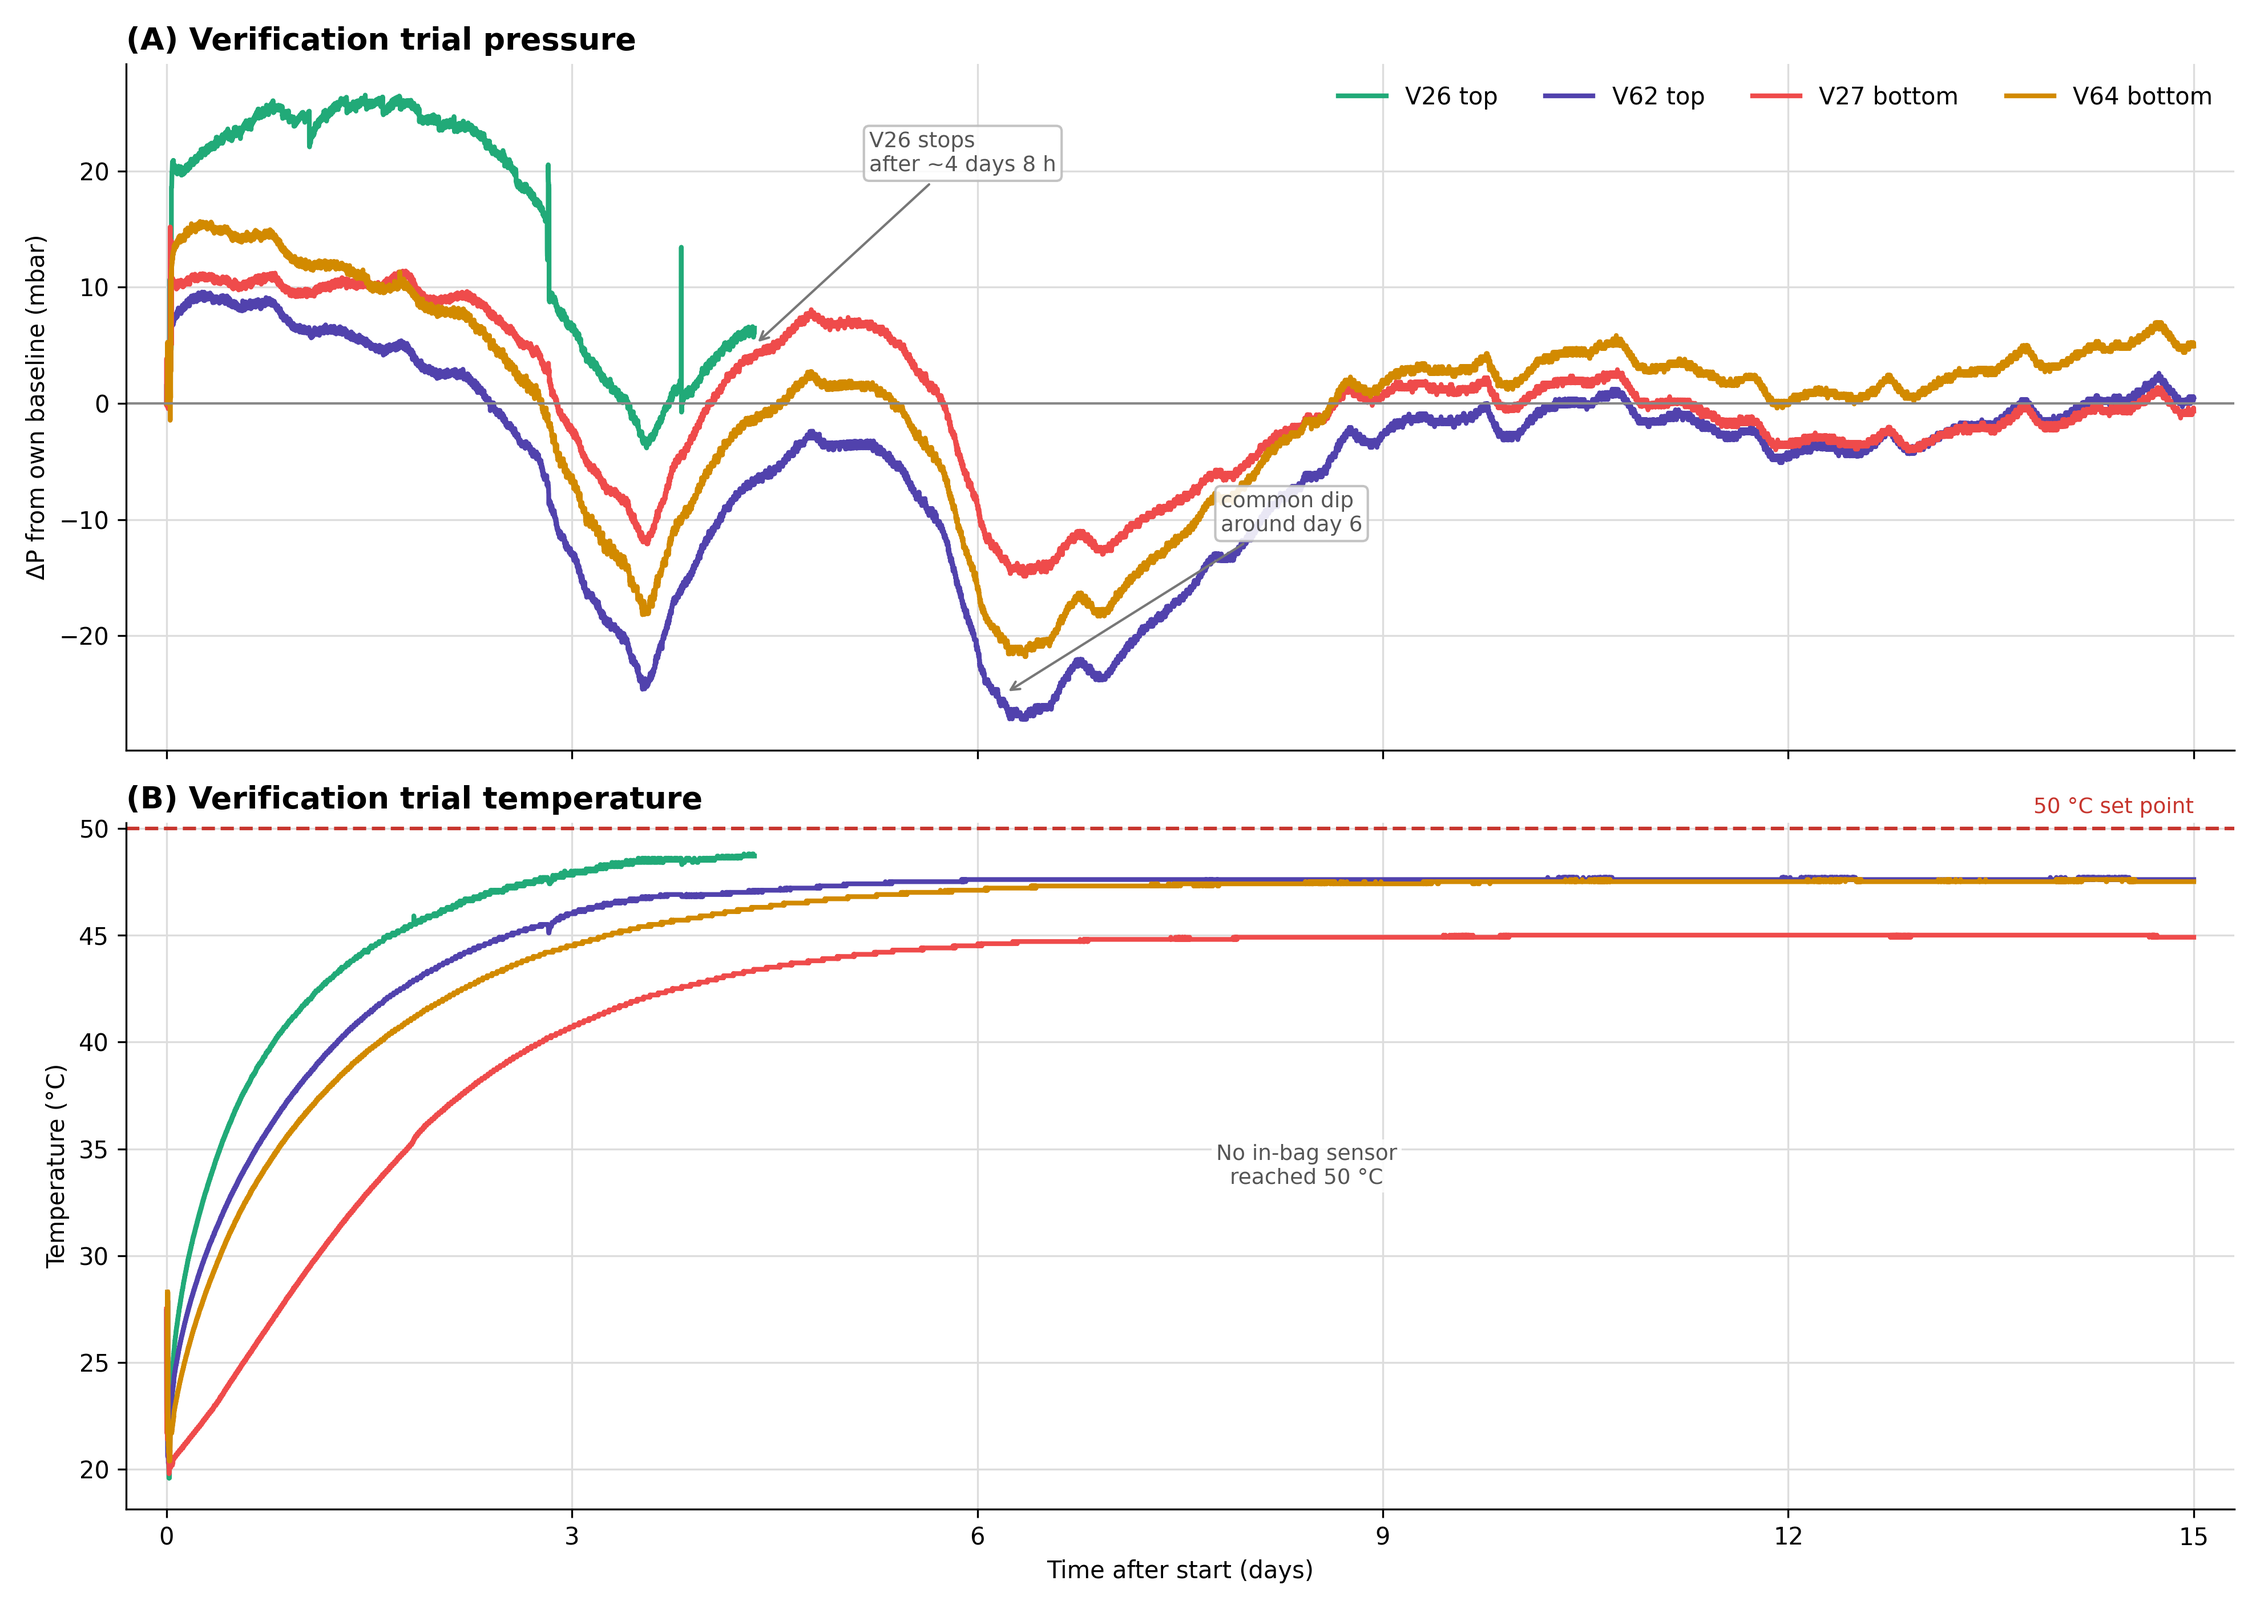
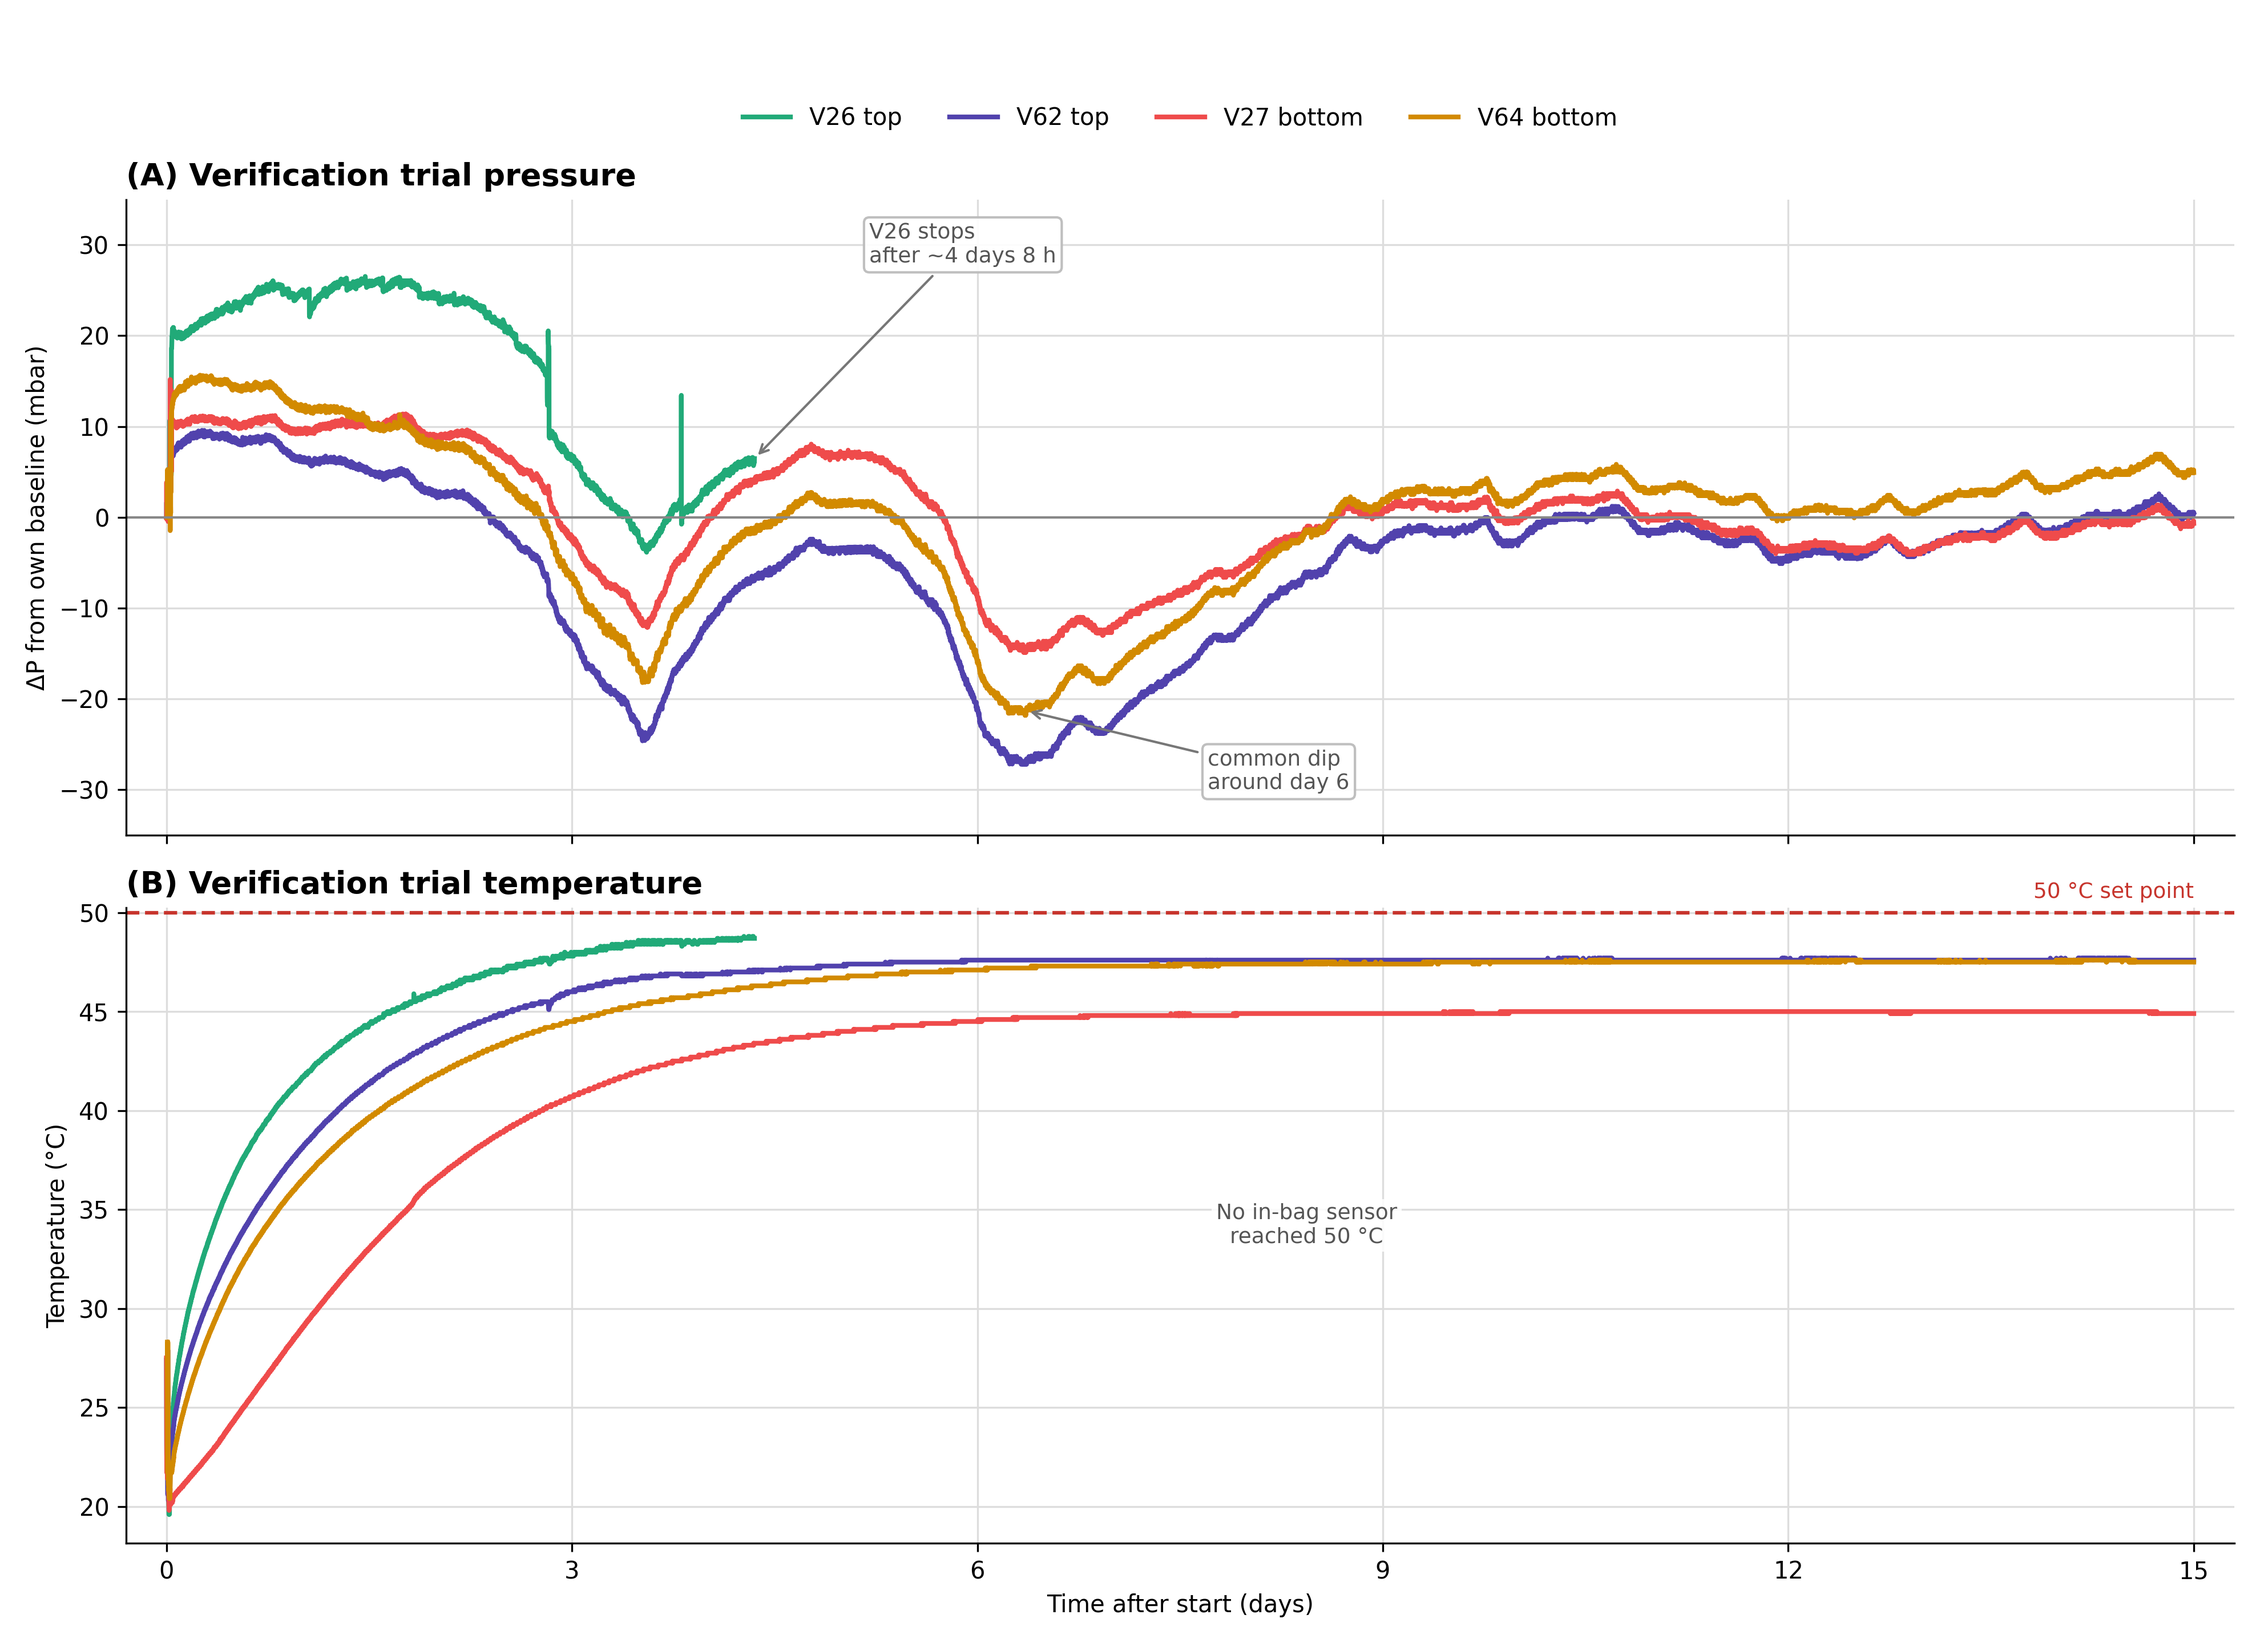
Regenerate Figure 7 from source data

diff --git a/reanalyse_raw_data.py b/reanalyse_raw_data.py
@@ -399,6 +399,60 @@ def copy_final_figure(filename: str) -> None:
         shutil.copy2(filename, package_dir / filename)
 
 
+def paired_verification_trace(
+    df: pd.DataFrame,
+    t_col: str,
+    p_col: str,
+    *,
+    max_day: float = 15.0,
+) -> pd.DataFrame:
+    cols = ["Time(days)", t_col, p_col]
+    subset = df[cols].copy()
+    mask = (
+        subset["Time(days)"].notna()
+        & subset[t_col].notna()
+        & subset[p_col].notna()
+        & (subset["Time(days)"] <= max_day)
+    )
+    # V26 has one pressure-only row immediately after temperature dropout; keep
+    # verification plots limited to complete sensor readings instead of plotting
+    # that artifact.
+    return subset.loc[mask, cols]
+
+
+def verification_delta_pressure_trace(df: pd.DataFrame, t_col: str, p_col: str) -> pd.DataFrame:
+    subset = paired_verification_trace(df, t_col, p_col)
+    trace = subset[["Time(days)", p_col]].copy()
+    trace["delta_p_mbar"] = trace[p_col] - float(trace[p_col].iloc[0])
+    return trace
+
+
+def verification_temperature_trace(df: pd.DataFrame, t_col: str, p_col: str) -> pd.DataFrame:
+    return paired_verification_trace(df, t_col, p_col)[["Time(days)", t_col]].copy()
+
+
+def days_hours_label(day_value: float) -> str:
+    days = int(math.floor(day_value))
+    hours = int(round((day_value - days) * 24.0))
+    if hours == 24:
+        days += 1
+        hours = 0
+    return f"{days} days {hours} h"
+
+
+def common_dip_point(pressure_traces: dict[str, pd.DataFrame]) -> tuple[float, float]:
+    complete_traces = [
+        trace[["Time(days)", "delta_p_mbar"]]
+        for trace in pressure_traces.values()
+        if float(trace["Time(days)"].max()) >= 15.0
+    ]
+    common = pd.concat(complete_traces, ignore_index=True)
+    mean_by_day = common.groupby("Time(days)")["delta_p_mbar"].mean()
+    dip_day = float(mean_by_day.idxmin())
+    dip_value = float(common.loc[np.isclose(common["Time(days)"], dip_day), "delta_p_mbar"].mean())
+    return dip_day, dip_value
+
+
 def regenerate_figures(main_df: pd.DataFrame, pressure_summary: pd.DataFrame, verification_df: pd.DataFrame):
     series = main_series(main_df)
     amber = "#d28a00"
@@ -540,8 +594,7 @@ def regenerate_figures(main_df: pd.DataFrame, pressure_summary: pd.DataFrame, ve
     style_axis(ax)
     ax = axes[1]
     for sid, position, t_col, _p_col in VERIFICATION_SENSORS:
-        subset = verification_df[["Time(days)", t_col]].dropna()
-        subset = subset[subset["Time(days)"] <= 15.0]
+        subset = verification_temperature_trace(verification_df, t_col, _p_col)
         color = {"V26": green, "V62": purple, "V27": red, "V64": amber}[sid]
         ax.plot(subset["Time(days)"], subset[t_col], color=color, linewidth=2.0, label=f"{sid} {position.lower()}")
     ax.axhline(50, color="#c7352d", linestyle="--", linewidth=1.5)
@@ -563,13 +616,26 @@ def regenerate_figures(main_df: pd.DataFrame, pressure_summary: pd.DataFrame, ve
     copy_final_figure("Figure6_temperature_attained_FINAL.png")
 
     fig, axes = plt.subplots(2, 1, figsize=(13.2, 9.6), sharex=True)
+    pressure_traces: dict[str, pd.DataFrame] = {}
     for sid, position, t_col, p_col in VERIFICATION_SENSORS:
-        subset = verification_df[["Time(days)", t_col, p_col]].dropna()
-        subset = subset[subset["Time(days)"] <= 15.0]
-        p0 = subset[p_col].iloc[0]
+        pressure_trace = verification_delta_pressure_trace(verification_df, t_col, p_col)
+        temperature_trace = verification_temperature_trace(verification_df, t_col, p_col)
+        pressure_traces[sid] = pressure_trace
         color = {"V26": green, "V62": purple, "V27": red, "V64": amber}[sid]
-        axes[0].plot(subset["Time(days)"], subset[p_col] - p0, color=color, linewidth=2.0, label=f"{sid} {position.lower()}")
-        axes[1].plot(subset["Time(days)"], subset[t_col], color=color, linewidth=2.0, label=f"{sid} {position.lower()}")
+        axes[0].plot(
+            pressure_trace["Time(days)"],
+            pressure_trace["delta_p_mbar"],
+            color=color,
+            linewidth=2.0,
+            label=f"{sid} {position.lower()}",
+        )
+        axes[1].plot(
+            temperature_trace["Time(days)"],
+            temperature_trace[t_col],
+            color=color,
+            linewidth=2.0,
+            label=f"{sid} {position.lower()}",
+        )
     axes[0].axhline(0, color="#888888", linewidth=1.0)
     axes[1].axhline(50, color="#c7352d", linestyle="--", linewidth=1.5)
     axes[0].set_ylabel("ΔP from own baseline (mbar)")
@@ -584,12 +650,17 @@ def regenerate_figures(main_df: pd.DataFrame, pressure_summary: pd.DataFrame, ve
     axes[0].set_ylim(-35, 35)
     annotation_box = dict(facecolor="white", edgecolor="#bbbbbb", boxstyle="round,pad=0.25", alpha=0.94)
     arrow = dict(arrowstyle="->", color="#777777", linewidth=1.0)
-    axes[0].annotate("V26 stops\nafter ~4 days 8 h", xy=(4.35, 5.0), xycoords="data",
-                     xytext=(0.78, 0.89), textcoords="axes fraction",
+    v26_stop_day = float(pressure_traces["V26"]["Time(days)"].iloc[-1])
+    v26_stop_pressure = float(pressure_traces["V26"]["delta_p_mbar"].iloc[-1])
+    common_dip_day, common_dip_pressure = common_dip_point(pressure_traces)
+    y_min, y_max = axes[0].get_ylim()
+    axes[0].annotate(f"V26 stops\nafter ~{days_hours_label(v26_stop_day)}",
+                     xy=(v26_stop_day, v26_stop_pressure), xycoords="data",
+                     xytext=(v26_stop_day + 0.85, y_max - 5.0), textcoords="data",
                      arrowprops=arrow, color="#555555", fontsize=9, ha="left", va="center",
                      bbox=annotation_box, annotation_clip=False)
-    axes[0].annotate("common dip\naround day 6", xy=(6.2, -25.0), xycoords="data",
-                     xytext=(0.78, 0.13), textcoords="axes fraction",
+    axes[0].annotate("common dip\naround day 6", xy=(common_dip_day, common_dip_pressure), xycoords="data",
+                     xytext=(common_dip_day + 1.35, y_min + 7.0), textcoords="data",
                      arrowprops=arrow, color="#555555", fontsize=9, ha="left", va="center",
                      bbox=annotation_box, annotation_clip=False)
     axes[1].text(15.0, 50.5, "50 °C set point", color="#c7352d", fontsize=9, ha="right", va="bottom")
@@ -620,7 +691,7 @@ def main() -> None:
     verification.to_csv("verification_summary_raw.csv", index=False)
     regenerate_figures(main_df, pressure, verification_df)
     print("Wrote derived CSV summaries and regenerated Figures 3-7 FINAL PNGs.")
-    print("Figures 3 and 4 pressure panels now use baseline-referred ΔP.")
+    print("Figures 3 and 4 pressure panels now use baseline-referred delta P.")
     print("Copied final figures into SUBMISSION_PACKAGE/Figures where that directory exists.")
     print("Main pressure rows:", len(pressure))
     print("Verification sensor rows:", len(verification))
